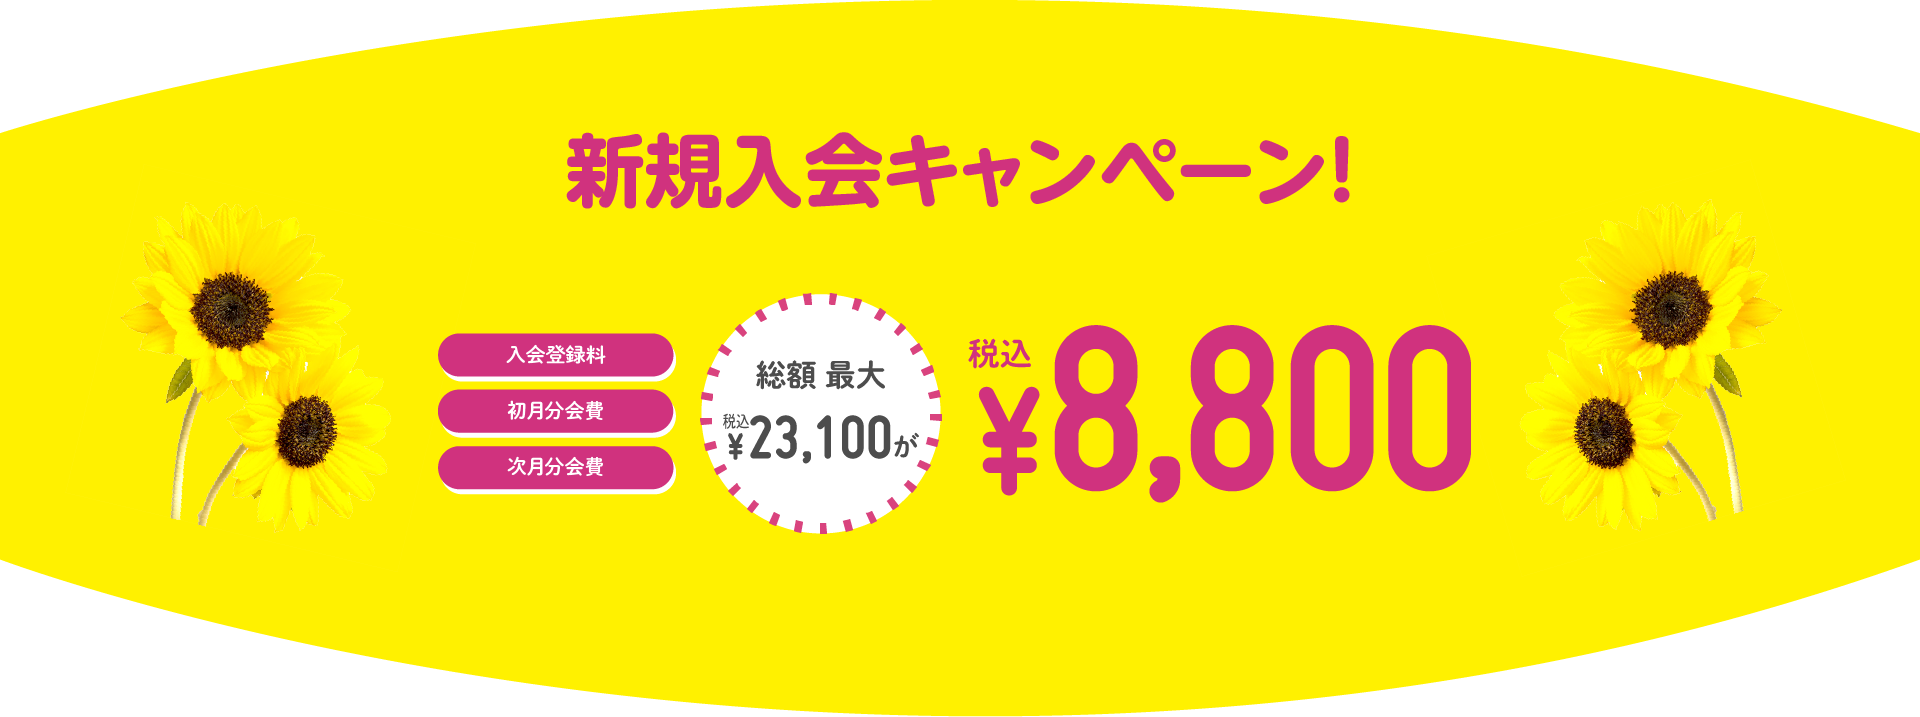
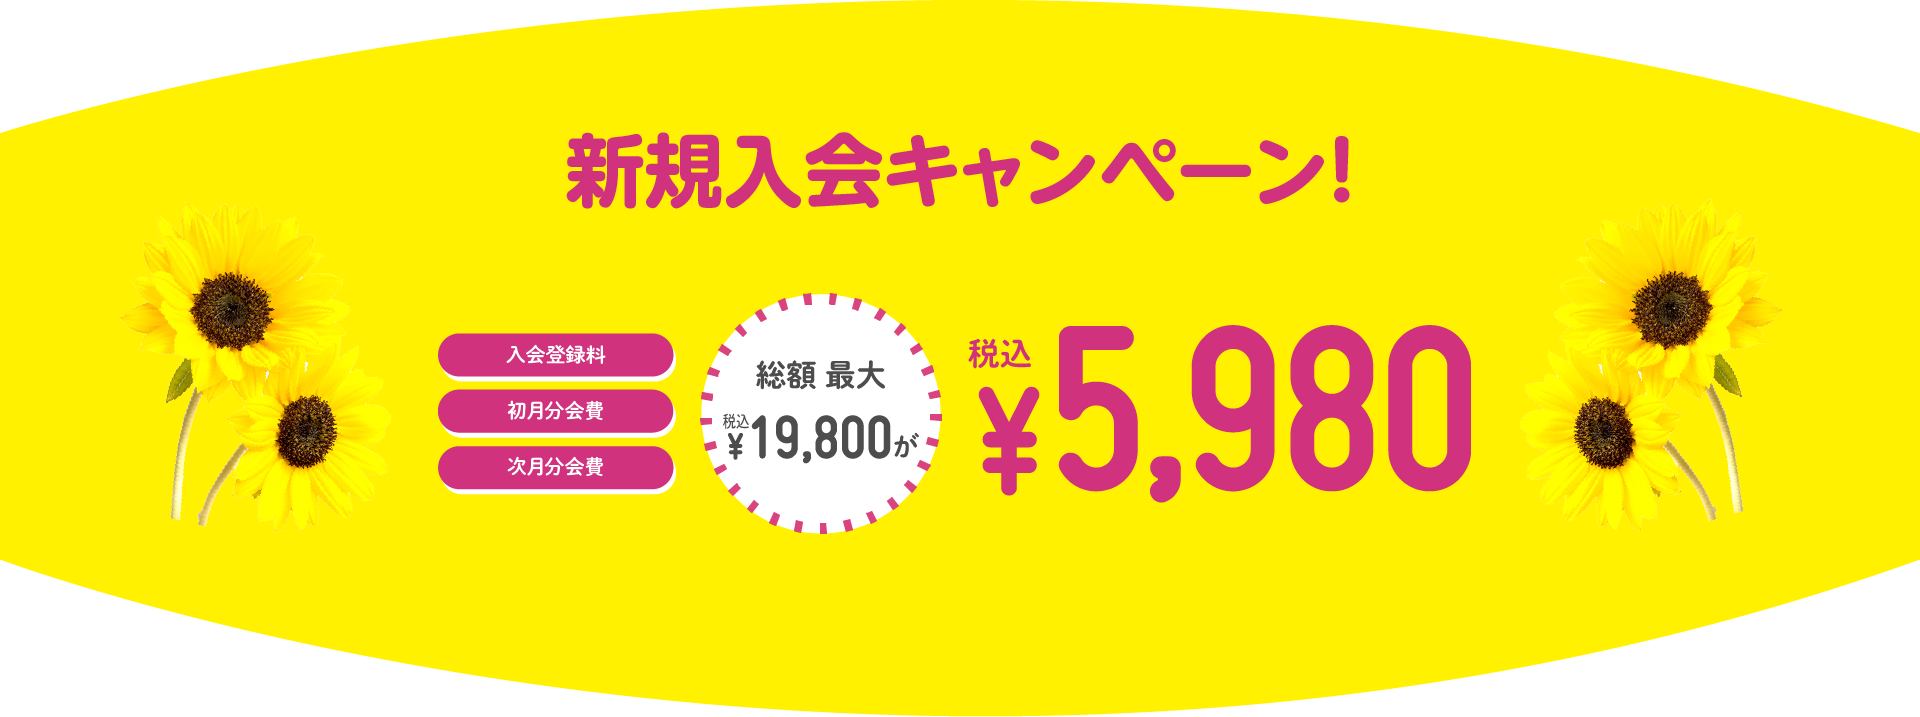
no message

Changed region(s): [[0.5312, 0.4603, 0.7188, 0.6444], [0.375, 0.583, 0.4375, 0.6444]]

diff --git a/app/public/wp-content/themes/purestrength/page-flower.php b/app/public/wp-content/themes/purestrength/page-flower.php
@@ -344,7 +344,7 @@
     <h3 class="fwMed anim slideinB">《お持ちいただく物》</h3>
     <div class="joining-list fwBold full-width anim slideinB">
         <div class="kaihi">
-        <p>入会登録料 + 初月分・次月分月会費 <br class="sp-show">まとめて <span class="num">8,800</span><small>円(税込)</small></p>
+        <p>入会登録料 + 初月分・次月分月会費 <br class="sp-show">まとめて <span class="num">5,980</span><small>円(税込)</small></p>
         <p><small class="fwNormal">※お支払い方法は現金 、PayPayのみとなります。</small></p>
         </div>
         <p class="id">本人確認書類<br class="sp-show">（免許証など）</p>
